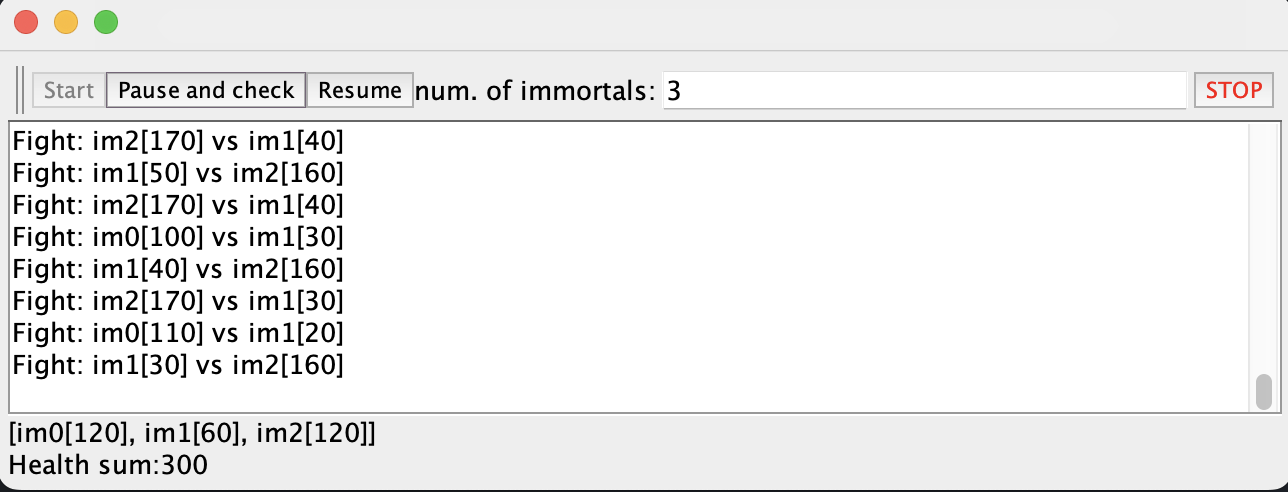
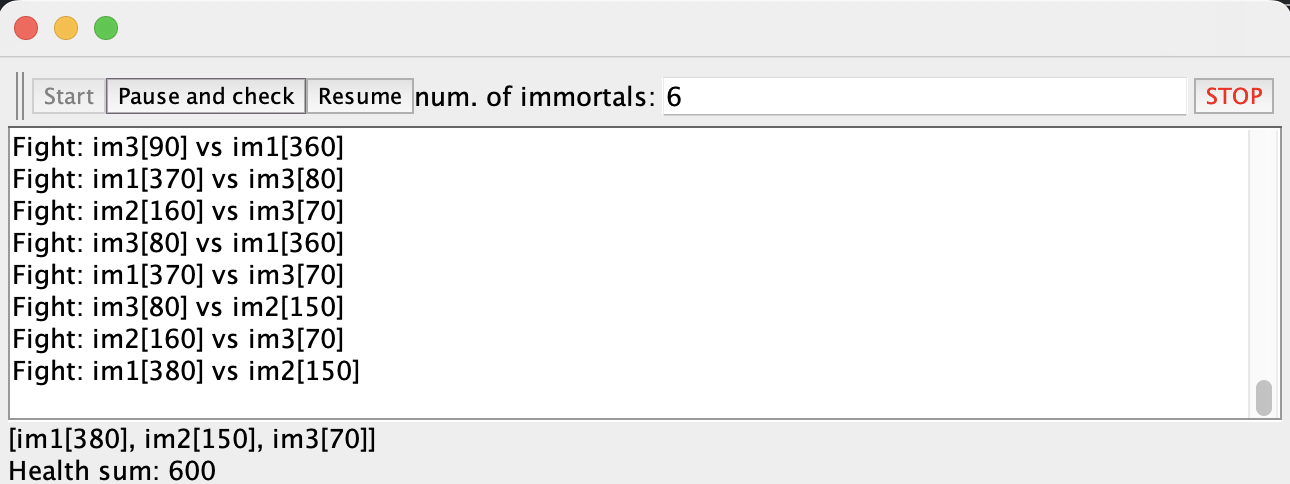
Readme Completo

Changed region(s): [[0.0, 0.0, 1.0, 1.0], [0.9938, 0.0, 1.0, 0.031]]

diff --git a/README.md b/README.md
@@ -172,10 +172,29 @@ Como no se esta cumpliendo el invariante debe ser por:
 
 ## Condicion Carrera
 
+Podemos observar que el invariante es la suma de las vidas de los inmortales podemos darnos cuenta que la suma de los peleadores nos da el invariante esperado.
 ![alt text](Invariante.png)
-![alt text](invariante2.png)
+en esta segunda imagen podemos ver que quedan dos peleadores y cuando son solo dos nunca se van a derrotar.
+![alt text](Invariante2.png)
 
+## Pruebas
 
+A la hora de probar con 100 inmortales el invariante no cambia.
 
+![alt text](Invariante100.png)
+
+A la hora de probar con 1000 inmortales el invariante no cambia.
+
+![alt text](Invariante1000.png)
+
+A la hora de probar con 10000 inmortales el invariante no cambia.
+
+![alt text](Invariante10000.png)
+
+## Implementacion STOP
+
+Cuando usamos el boton STOP lo que hace el programa es parar a los inmortales y dejan de golpearse.
+
+![alt text](stop.png)
 
 
